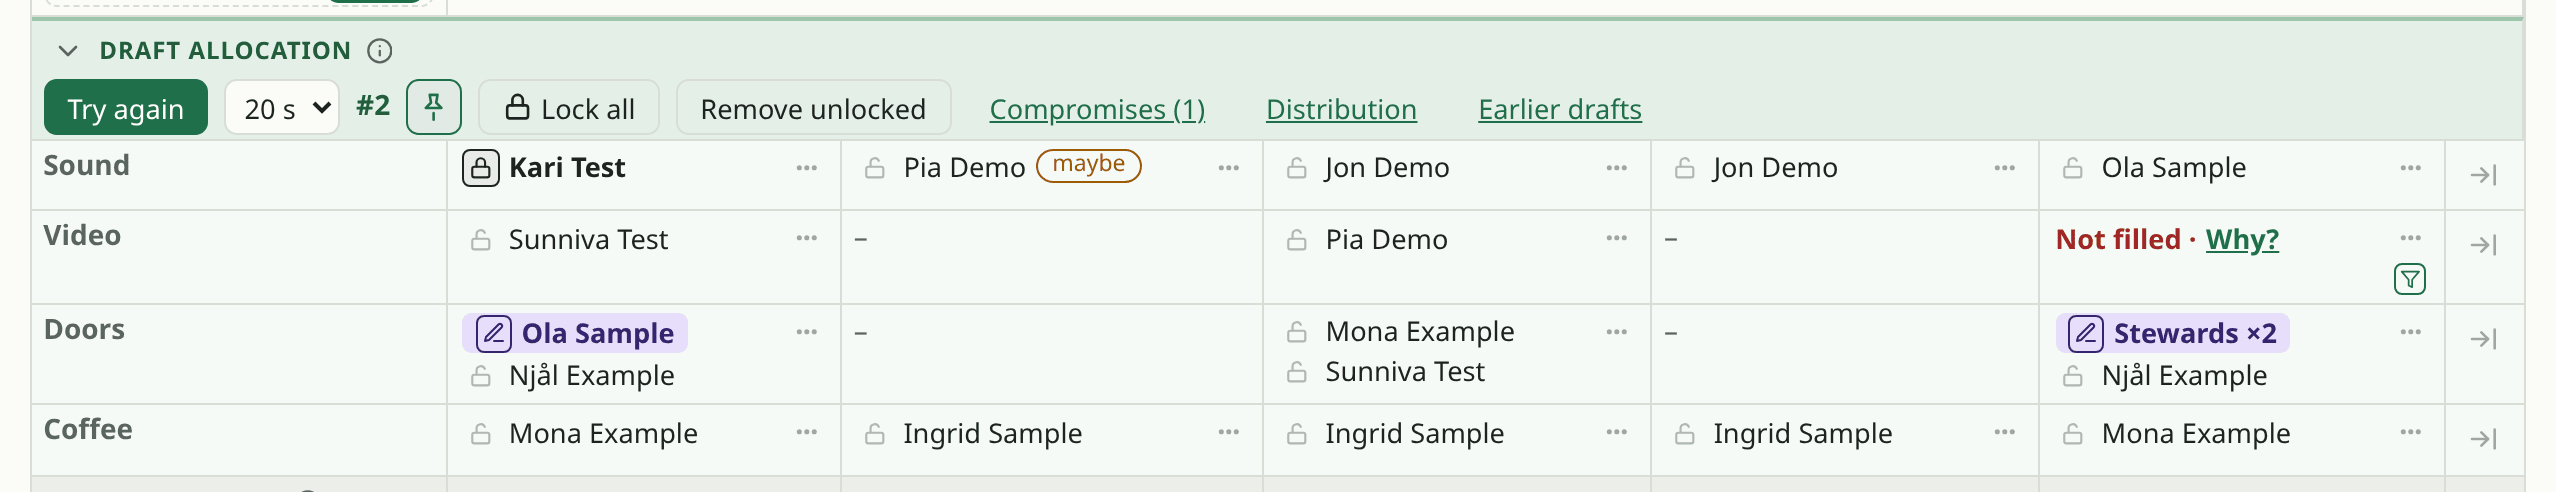
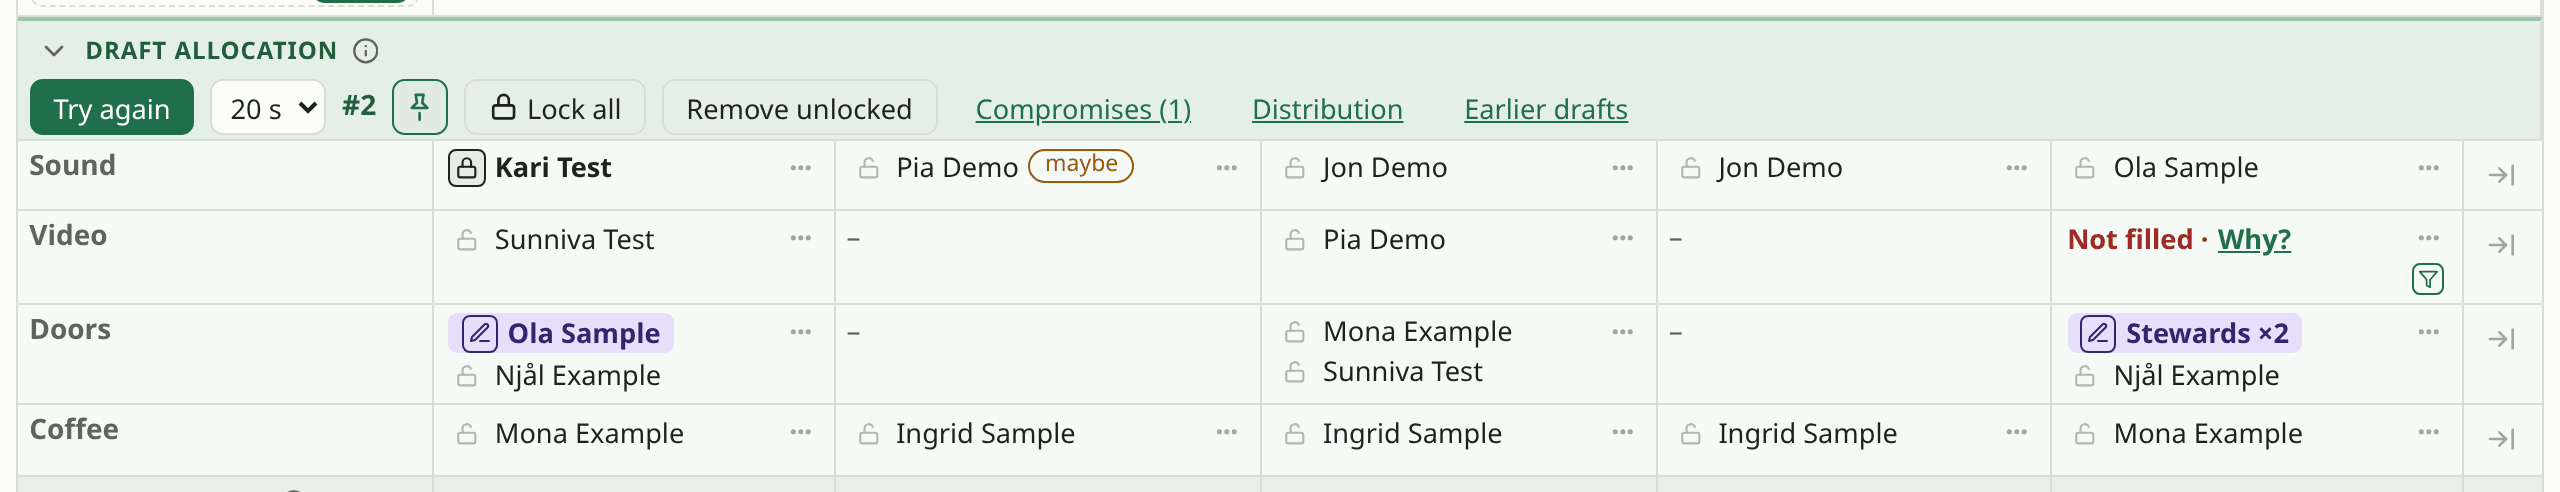
The plan page uses the whole width (#38)
The user: "Vi har stort behov for horisontal plass. Så for planen bør vi ikke ha en container for dette midt på."
No max-width on the plan page and a smaller side padding; at 1920 px 14 dates are in view instead of 11.
README pictures made again.

diff --git a/web/style.css b/web/style.css
@@ -103,7 +103,7 @@ a.org-card > .ic { color: var(--muted); }
   background: color-mix(in srgb, var(--accent) 14%, var(--bg)); color: var(--accent); font-weight: 700; font-size: .9rem; }
 
 /* ---- the plan page: one table, events across, the first column stays put ---- */
-main:has(.plan-page) { max-width: 100rem; }
+main:has(.plan-page) { max-width: none; padding-left: .5rem; padding-right: .5rem; }  /* the plan uses the whole width: it needs room sideways */
 .title-bar { display: flex; flex-wrap: wrap; align-items: center; gap: .25rem .6rem; }
 .title-bar h1 { margin: 0; font-size: 1.25rem; }
 .title-bar .back { color: var(--muted); text-decoration: none; }

diff --git a/CLAUDE.md b/CLAUDE.md
@@ -121,6 +121,8 @@ starts the Python planner, turns the answer into a view with explanations), `int
   *Availability* (a count per event and one row per person; ⋮⋮ drags a person, `person.position`; «Add a person» lines after those without a section and at the end of each section, `POST /people {name, section}`; organisation-wide *sections* (`person_section`)
   are headings with their people below, those without a section first; only placement, never in the planner's input; on a phone too). Clicking a date, task, person, row ✎ or draft place opens its dialog; ⚙ *Plan settings* has the name, the
   weighting, the earlier drafts (Show/Pin) and Delete. Do not add separate pages for these again.
+  - **The whole width** (2026-11-23, the user: "Vi har stort behov for horisontal plass. Så for planen bør vi ikke ha en container for dette midt på"):
+    the plan page has no max-width and only a small side padding (`main:has(.plan-page)`); other pages may stay centred.
   - **On a phone** the same table as on a wide screen, narrower (2026-11-22, the user: "La vertikal visning på mobil vises som vanlig. Den
     løsningen som er i dag er litt forvirrende." — the turned availability of 2026-11-20 is gone; do not bring it back). Names stay put, the days
     scroll sideways; a tap answers. Dragging a selection needs a mouse (a touch scrolls), but ⇥ and a count still select.
